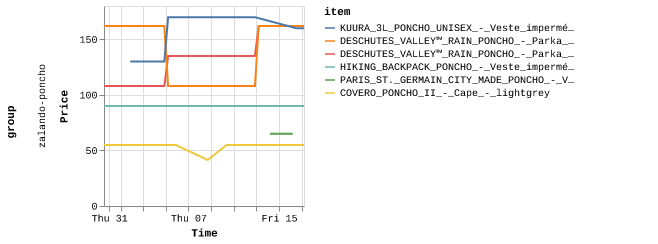
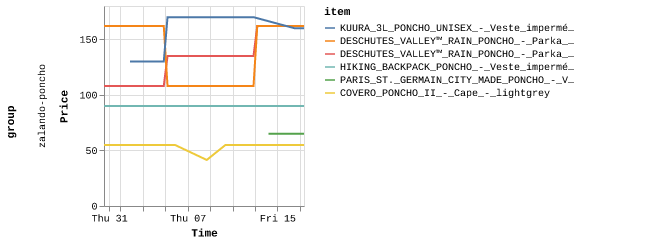
Latest scraping prices: Sun Sep 17 08:50:29 UTC 2023

diff --git a/scrapes/prices/zalando-poncho-PARIS_ST._GERMAIN_CITY_MADE_PONCHO_-_Veste_de_survêtement_-_aura_white.md b/scrapes/prices/zalando-poncho-PARIS_ST._GERMAIN_CITY_MADE_PONCHO_-_Veste_de_survêtement_-_aura_white.md
@@ -1,0 +1,3 @@
+€ 64,95
+
+[Source](https://fr.zalando.be/homme/?q=poncho+imperm%C3%A9able&sold_by_zalando=true)
